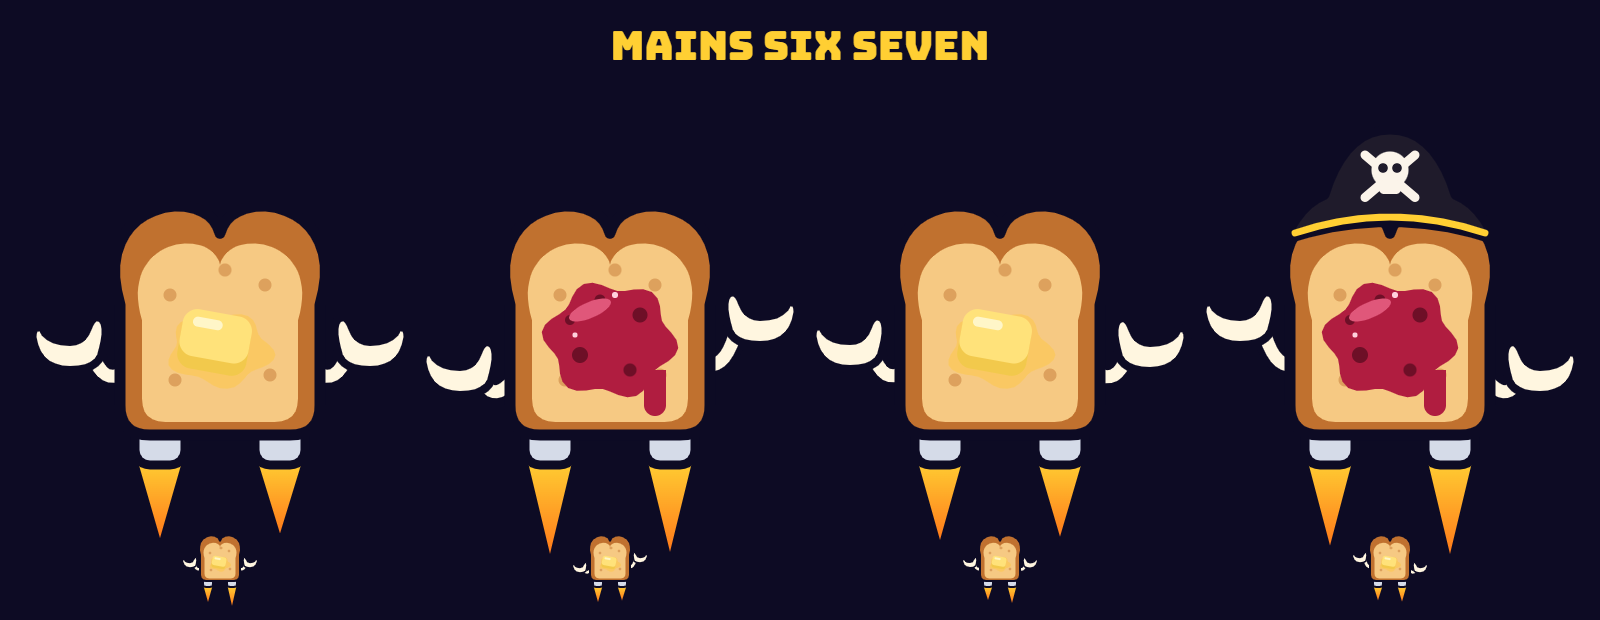
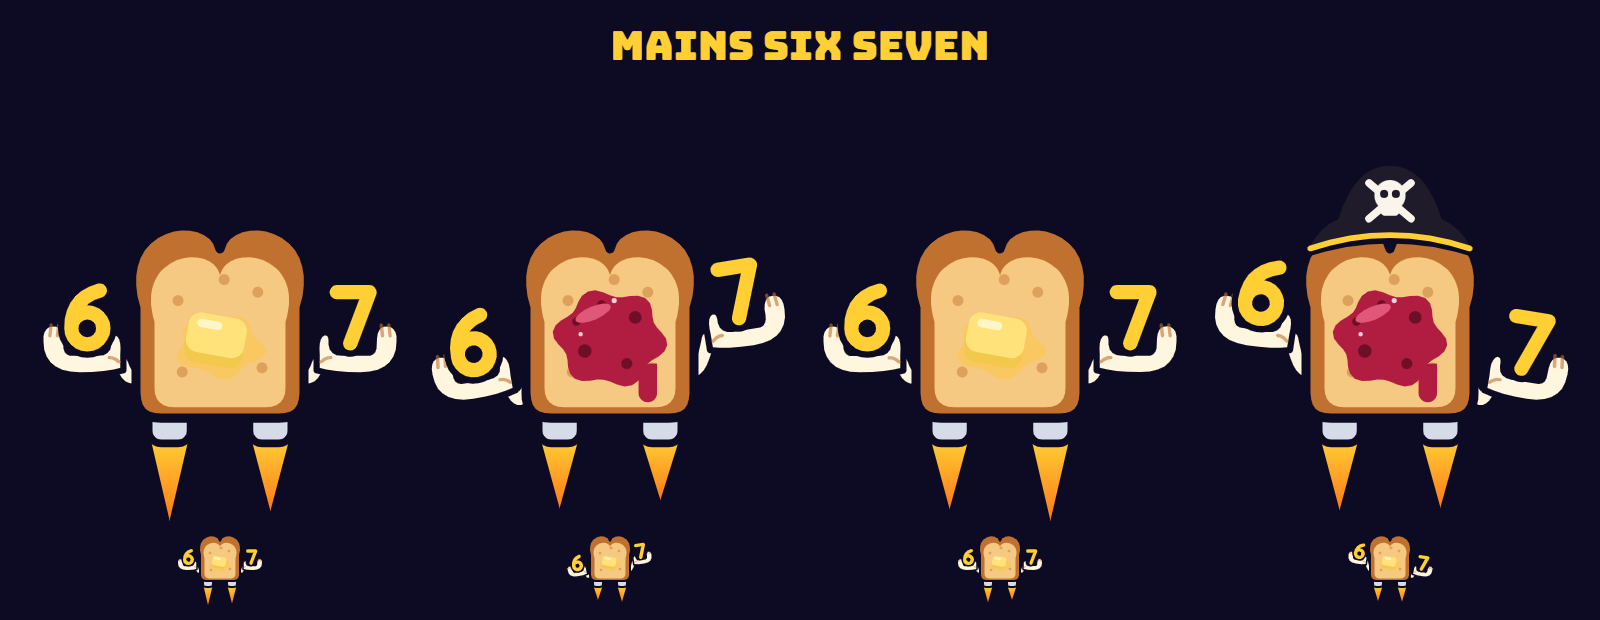
Mains Six Seven avec un 6 et un 7, serveur local pour l'app Claude

diff --git a/public/js/app/sprites.js b/public/js/app/sprites.js
@@ -786,20 +786,61 @@ function sideCutlery(ctx, t, C) {
 
 const SIX_SEVEN_HZ = 2.2;
 
-function palm(ctx, x, y, side, C) {
-  const p = (dx, dy) => [x + side * dx, y + dy];
-  ctx.fillStyle = C.ink;
+const DIGITS = {
+  6(ctx) {
+    ctx.moveTo(3, -13.2);
+    ctx.quadraticCurveTo(-3.8, -11.4, -3.8, -4.2);
+    ctx.arc(0, -4.2, 3.8, Math.PI, Math.PI * 3);
+  },
+  7(ctx) {
+    ctx.moveTo(-3.8, -12.8);
+    ctx.lineTo(4, -12.8);
+    ctx.lineTo(-0.6, -0.6);
+  }
+};
+
+function digit(ctx, n, x, C) {
+  ctx.save();
+  ctx.translate(x, -1.2);
   ctx.beginPath();
-  ctx.moveTo(...p(-5.5, 1));
-  ctx.quadraticCurveTo(...p(-5, 5), ...p(1, 5));
-  ctx.quadraticCurveTo(...p(7.5, 5), ...p(8.5, -1.5));
-  ctx.quadraticCurveTo(...p(8.6, -4), ...p(6.6, -3.4));
-  ctx.quadraticCurveTo(...p(5.4, -0.6), ...p(1, -0.6));
-  ctx.quadraticCurveTo(...p(-1.6, -0.6), ...p(-2.6, -3.4));
-  ctx.quadraticCurveTo(...p(-3.6, -6.4), ...p(-5.4, -5.2));
-  ctx.quadraticCurveTo(...p(-6.8, -3.6), ...p(-5.5, 1));
+  DIGITS[n](ctx);
+  ctx.strokeStyle = C.void;
+  ctx.lineWidth = 6.4;
+  ctx.stroke();
+  ctx.strokeStyle = C.mustard;
+  ctx.lineWidth = 3.4;
+  ctx.stroke();
+  ctx.restore();
+}
+
+function palm(ctx, side, C) {
+  const p = (dx, dy) => [side * dx, dy];
+  ctx.fillStyle = C.ink;
+  ctx.strokeStyle = C.void;
+  ctx.lineWidth = 1.5;
+  ctx.beginPath();
+  ctx.moveTo(...p(-8, 1));
+  ctx.quadraticCurveTo(...p(-8.4, -3.6), ...p(-6.4, -4.4));
+  ctx.quadraticCurveTo(...p(-4.2, -4.8), ...p(-4.4, -1.6));
+  ctx.quadraticCurveTo(...p(-4.2, 0.4), ...p(-2, 0.4));
+  ctx.lineTo(...p(4.6, 0.4));
+  ctx.quadraticCurveTo(...p(5.6, 0.2), ...p(5.6, -1.6));
+  ctx.quadraticCurveTo(...p(5.4, -6.6), ...p(8.8, -6.6));
+  ctx.quadraticCurveTo(...p(12, -6.4), ...p(11.8, -2.2));
+  ctx.quadraticCurveTo(...p(11.6, 5.8), ...p(2.4, 5.8));
+  ctx.quadraticCurveTo(...p(-4, 5.8), ...p(-8, 4.6));
   ctx.closePath();
   ctx.fill();
+  ctx.stroke();
+  ctx.strokeStyle = "rgba(192, 113, 47, 0.6)";
+  ctx.lineWidth = 0.8;
+  ctx.beginPath();
+  for (const fx of [7.4, 9.2]) {
+    ctx.moveTo(...p(fx, -6.2));
+    ctx.lineTo(...p(fx + 0.3, -3.6));
+  }
+  ctx.moveTo(...p(-7, 2.6));
+  ctx.quadraticCurveTo(...p(-5.6, 1.4), ...p(-4.6, 1.6));
   ctx.stroke();
 }
 
@@ -808,19 +849,23 @@ function sideSixSeven(ctx, t, C) {
   ctx.lineCap = "round";
   ctx.lineJoin = "round";
   for (const side of [-1, 1]) {
-    const x = side * 29, y = 3 - side * k * 5;
+    const x = side * 31, y = 5 - side * k * 6;
+    const wx = x - side * 7.6, wy = y + 3;
     ctx.beginPath();
-    ctx.moveTo(side * 16, 5);
-    ctx.quadraticCurveTo(side * 22, (y + 13) / 2 + 5, x - side * 4, y + 3);
+    ctx.moveTo(side * 17, 7);
+    ctx.quadraticCurveTo(side * 21, Math.max(wy, 7) + 7, wx, wy);
     ctx.strokeStyle = C.void;
-    ctx.lineWidth = 5;
+    ctx.lineWidth = 5.4;
     ctx.stroke();
     ctx.strokeStyle = C.ink;
-    ctx.lineWidth = 2.6;
+    ctx.lineWidth = 3;
     ctx.stroke();
-    ctx.strokeStyle = C.void;
-    ctx.lineWidth = 1.6;
-    palm(ctx, x, y, side, C);
+    ctx.save();
+    ctx.translate(x, y);
+    ctx.rotate(-k * 0.16);
+    palm(ctx, side, C);
+    digit(ctx, side < 0 ? 6 : 7, side * 0.6, C);
+    ctx.restore();
   }
 }
 

diff --git a/README.md b/README.md
@@ -29,7 +29,7 @@ Jeu de soirée du collectif Tartine Sauvage. La tartine-fusée esquive les couve
 - Garnitures : 9 tartinades dessinées sur la tartine (`TOPPINGS` dans `sprites.js`) : confiture, pâte à tartiner, miel et son abeille, ketchup en zigzag, dentifrice rayé, œuf au plat, sardine entière, slime qui a un œil, pâtée pour chien tartinée avec son odeur et sa mouche. Beurre au départ. 1 attaque à couteaux sur 10 a un couteau garni : le frôler ou se faire tuer par lui débloque sa garniture (pas en entraînement). Une garniture gagnée est mise tout de suite. Dès la première, toucher la tartine de l'accueil ouvre des flèches pour changer (une astuce le dit tant qu'on ne l'a pas fait). Gardées sur le téléphone (`cv-garnitures`, `cv-garniture`, `cv-garniture-astuce`), purement visuel. En local, `?garnitures=toutes` dans l'adresse les débloque toutes.
 - Tenue de la tartine (30/10/2026) : 3 emplacements en plus de la garniture, un objet de chaque à la fois (`slot` dans `GEAR` de `palette.js`, dessins `HATS`, `SIDES` et `BREADS` dans `sprites.js`). Chaque objet est la récompense d'un succès qui a un lien avec lui (champ `gear`) :
   - Chapeaux : bandeau de ninja (Insaisissable, frôlé x5), couronne (Tartine d'or), toque de chef (Tout le frigo), casque d'astronaute (Fidèle du Space), chapeau de pirate (Dans le top), bonnet de Noël (Joyeux Noël, jouer en décembre), auréole (Tartinée express), bonnet de nuit (En détente), oreilles de chien (Ouaf), chapeau de sorcière (Tartine de minuit, jouer entre minuit et 3 h, à l'heure du téléphone).
-  - Côtés : boosters (Dorée à point, 90 s), couteau et fourchette (Tout vu), mains Six Seven (secret Six Seven : les deux mains, paumes vers le ciel, montent et descendent chacune leur tour, sans arrêt).
+  - Côtés : boosters (Dorée à point, 90 s), couteau et fourchette (Tout vu), mains Six Seven (secret Six Seven : les deux mains en creux tiennent un 6 à gauche et un 7 à droite, et montent et descendent chacune leur tour, sans arrêt ; les chiffres sont dessinés à la main, pas avec la police, pour que le 7 ne ressemble pas à un « ? »).
   - Pain : pain de mie au départ, pain grillé (Bien grillée, 120 s), pain carbonisé (Tartine de légende, 150 s), brioche (Boulangerie, 50 parties), tartine sans croûte (Accro à la croûte, 100 parties : du pain de mie sans sa croûte). Seules les couleurs et les détails changent : même forme, même zone de touche.
   - Avant le 30/10/2026 : sorcière à 30 s, bonnet de Noël à 10 parties, boosters à 60 s puis 90 s. Ceux qui les avaient gagnés ainsi les perdent jusqu'à remplir la nouvelle condition.
   - Un objet gagné est mis tout de suite, même en pleine partie. Choix dans les flèches de la tartine de l'accueil : une ligne par emplacement (chapeau, côtés, pain) sous celle de la garniture, montrée seulement quand on a gagné au moins un objet de cet emplacement. Pendant le choix, le bas de l'accueil (Jouer, classement…) se cache pour laisser la place. Gardé sur le téléphone (`cv-accessoire` pour le chapeau, `cv-cotes`, `cv-pain`), purement visuel. En local, `?accessoires=tous` les débloque tous le temps de la page, et `?succes=tous` gagne pour de bon tous les succès (donc tous les objets) sur ce navigateur ; avec `&garnitures=toutes`, tout le jeu est débloqué.
@@ -256,7 +256,7 @@ Après :
 |---|---|
 | `npm install` | Installer les outils |
 | `npm run db:local` | Créer la base locale (à refaire après une migration) |
-| `npm run dev` | Jeu en local sur http://localhost:8787, clé admin dans `.dev.vars` |
+| `npm run dev` | Jeu en local sur http://localhost:8787, clé admin dans `.dev.vars`. Dans l'app Claude, le serveur « croute-que-croute » de `.claude/launch.json` lance la même chose, ouvert au wifi (`--ip 0.0.0.0`) pour tester sur téléphone |
 | `npm test` | Robot d'équité, 0 mort attendu (environ 4 min) |
 | `npm run test:api` | Tests de l'API, avec `npm run dev` lancé |
 | `npm run equilibrage` et suivantes | Mesurer le dosage du jeu avec le robot « humain » (voir Équilibrage) |
